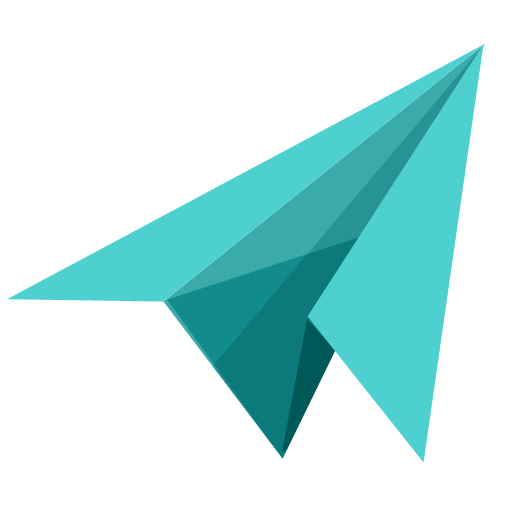
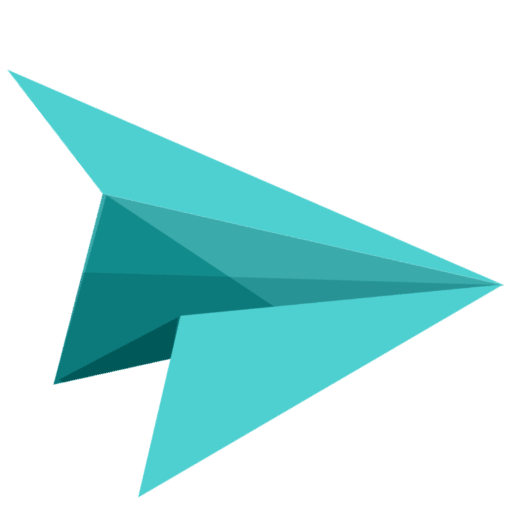
fix: Fix animation

diff --git a/app/components/Hero.tsx b/app/components/Hero.tsx
@@ -13,33 +13,29 @@ const Hero = () => {
     curviness: 1.25,
     autoRotate: true,
     values: [
-      { x: 100, y: -20 },
-      { x: 300, y: 10 },
-      { x: 500, y: 100 },
-      { x: 750, y: -100 },
-      { x: 350, y: -50 },
-      { x: 600, y: 100 },
-      { x: 800, y: 0 },
-      { x: window.innerWidth - 600, y: -250 },
-      { x: window.innerWidth - 500, y: -100 },
+      { x: 200, y: 0, scale: 4 },
+      { x: 600, y: 0, scale: 6 },
+      { x: 3000, y: -100, scale: 3 },
+      { x: 2000, y: -600, scale: 3 },
+      { x: 900, y: 0, scale: 3 },
+      { x: 1200, y: -10, scale: 2 },
+      { x: 1350, y: -40, scale: 2 },
     ],
   };
   useGSAP(() => {
     const tween = gsap.to(paperPlaneRef.current, {
-      duration: 10,
+      duration: 4,
       motionPath: {
         path: flightPath.values,
         curviness: flightPath.curviness,
         autoRotate: flightPath.autoRotate,
       },
-      ease: "power1.inOut",
-      // repeat: -1,
-      // yoyo: true,
+      ease: "power2.inOut",
     });
   });
 
   return (
-    <div className="relative h-screen w-full flex items-center px-6 md:px-12">
+    <div className="relative h-screen w-full flex items-center px-6 md:px-12 overflow-hidden">
       <div className="flex flex-col justify-center gap-4 md:gap-8">
         <div className="text-5xl md:text-9xl font-semibold text-neonGreen flex flex-col gap-4">
           <div>Hello</div>
@@ -50,7 +46,7 @@ const Hero = () => {
           Full Stack Developer
         </div>
       </div>
-      <div className="absolute h-72 w-72">
+      <div className="absolute h-72 w-72 -left-80 hidden md:block">
         <Image src={PaperPlane} alt="Plane" fill ref={paperPlaneRef} />
       </div>
     </div>
